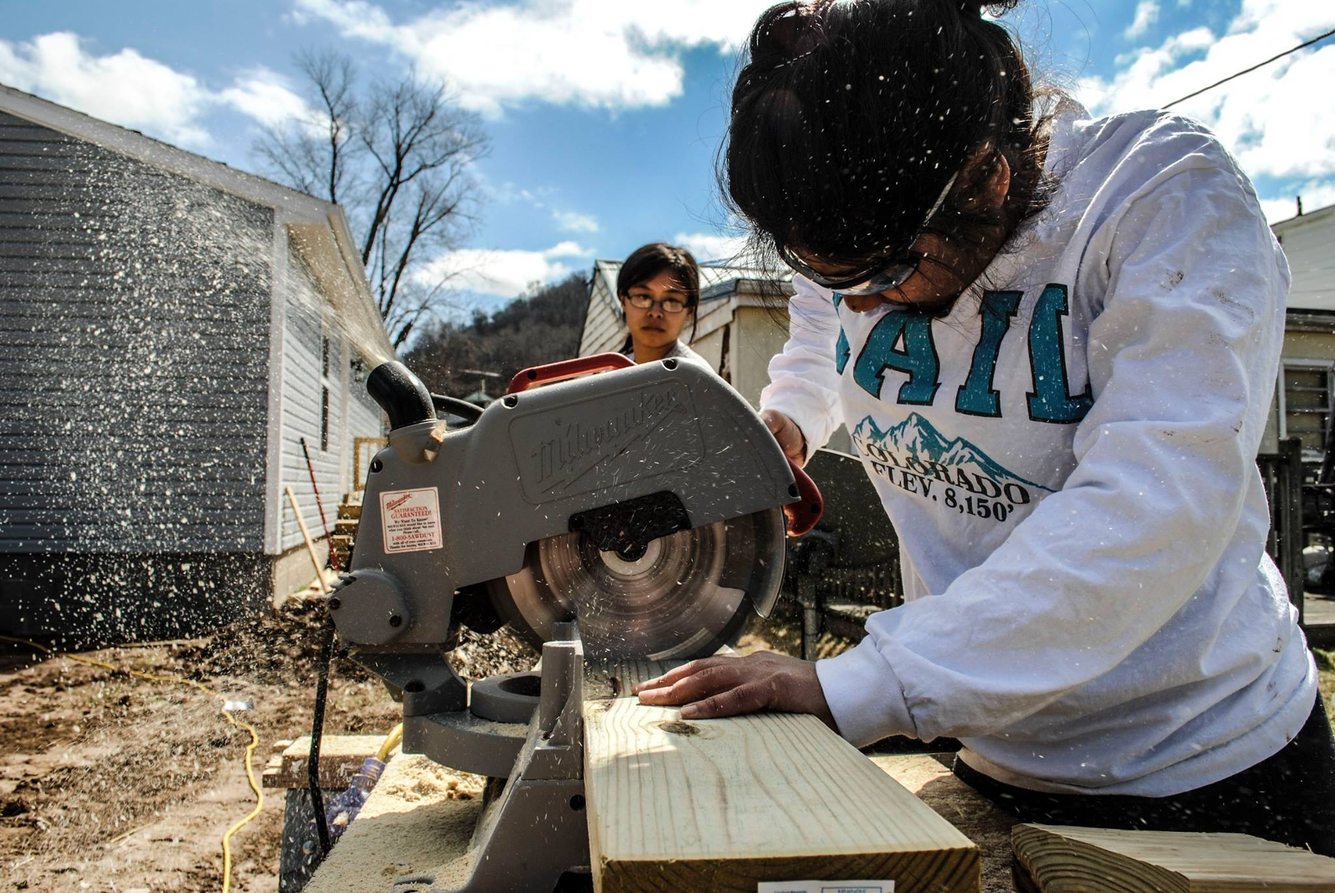
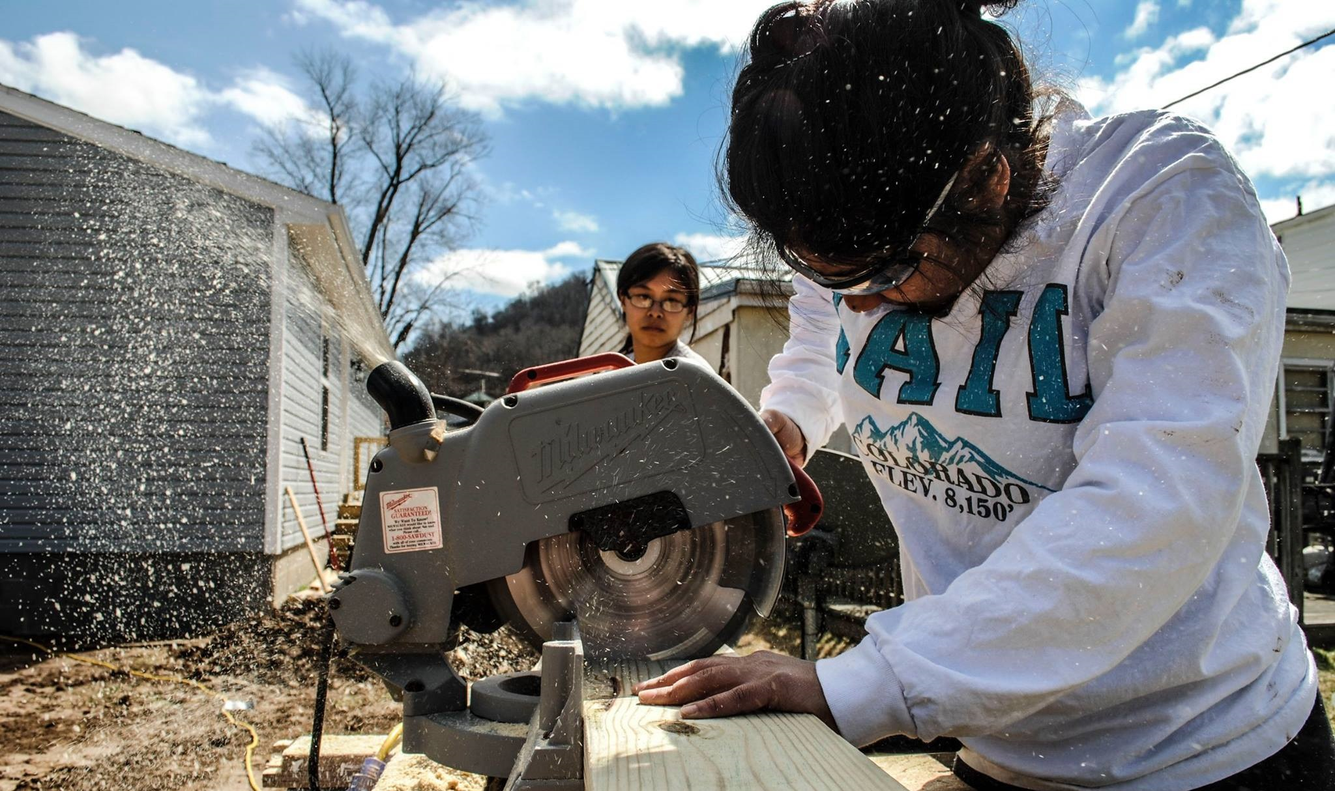
fullscreen image to test on mobile

diff --git a/index.css b/index.css
@@ -1,5 +1,18 @@
-html {
-	background: url('cover_picture.jpg') no-repeat center center; 
-	min-height: 100%;
-	background-size: cover;
+html, body {
+    height: 100%;
+    padding: 0;
+    margin: 0;
+}
+
+#first {
+	height: 100%;
+	overflow: hidden;
+}
+
+#cover {
+	position: absolute;
+	width: 100%;
+	bottom: 0;
+	margin: auto;
+	z-index: -1;
 }

diff --git a/index.html b/index.html
@@ -6,4 +6,11 @@
 </head>
 
 <html>
+	<body>
+		<div id="first">
+		<img id="cover" src="cover_picture.jpg">
+		</div>
+
+		<h1>hello world</h1>
+	</body>
 </html>
